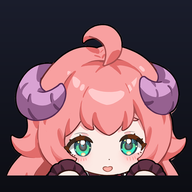
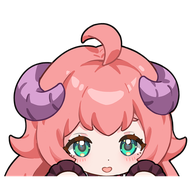
Add files via upload

diff --git a/index.html b/index.html
@@ -19,7 +19,7 @@
      favicon.png 은 **머리 전체**를 담은 크롭 — 16px 에서 뿔+분홍 머리 실루엣으로 알아본다.
      얼굴을 더 바짝 당기면 16px 에서 분홍 덩어리가 된다(실측). -->
 <link rel="icon" type="image/png" href="/favicon.png">
-<link rel="apple-touch-icon" href="/icon.png">
+<link rel="apple-touch-icon" href="/icon-ios.png"><!-- ⚠ 투명 PNG 를 홈 화면에 올리면 iOS 가 뒤를 검정으로 채운다 → 여기만 불투명 파일 -->
 <style>
   :root{
     --bg:#0e1014; --panel:#161922; --panel2:#1d2129; --line:#272c36; --grid:#1b1f27;
@@ -1466,12 +1466,12 @@
      카드 면은 원안(#FFFFFF, 밝기 100%)에서 **#EFF1F5(88%)로 더 내렸다** — 사용자 요청.
      ⚠ 더 올리려면 panel #F4F6F8(92%), 더 내리려면 #E9ECF1(84%). bg 도 같은 폭으로 같이 움직일 것. */
   body.light{
-    --bg:#e5e8ee; --panel:#eff1f5; --panel2:#e3e7ed; --line:#d5dae3; --grid:#e8ebf0;
-    --text:#23262d; --muted:#636a76; --accent:#3c5fd0; --accent2:#3c5fd0;
-    --rowhead:#ebeef3; --rowhead-h:#e1e5ec; --mon:#c4cad4; --scroll:#b6bdc8;
-    --grad:linear-gradient(135deg,#3c5fd0 0%,#3c5fd0 100%);
-    --grad-soft:linear-gradient(135deg,rgba(60,95,208,.12),rgba(60,95,208,.09));
-    --glow:0 2px 8px rgba(35,40,60,.16);
+    --bg:#f7f8f9; --panel:#ffffff; --panel2:#f4f5f7; --line:#dde1e8; --grid:#eef0f4;
+    --text:#1b1f27; --muted:#6b7280; --accent:#2b59e8; --accent2:#2b59e8;
+    --rowhead:#fafbfc; --rowhead-h:#f1f3f6; --mon:#ccd2dc; --scroll:#c3c9d3;
+    --grad:linear-gradient(135deg,#2b59e8 0%,#2b59e8 100%);
+    --grad-soft:linear-gradient(135deg,rgba(43,89,232,.12),rgba(43,89,232,.09));
+    --glow:0 2px 8px rgba(27,31,39,.14);
     --qa-c:#0e7490; --qa-c-dim:rgba(14,116,144,.26);
     --qa-c-bg:rgba(14,116,144,.11); --qa-c-bd:rgba(14,116,144,.42);
   }
@@ -1479,9 +1479,9 @@
      그래야 그 안의 부서 칩·버튼·드롭다운이 전부 알아서 따라온다.
      (덮어씌우기로 했다가 부서 칩이 묻히는 것을 시안에서 확인하고 이 방식으로 바꿨다.) */
   body.light .topbar, body.light .ctxbar, body.light .footbar{
-    --panel:#343858; --panel2:#3e4368; --line:#474c77; --text:#edeff5; --muted:#aeb6c6;
-    background:#343858; border-color:#474c77; color:#edeff5; }
-  body.light .topbar .btn, body.light .ctxbar .btn, body.light .footbar .btn{ border-color:#474c77; }
+    --panel:#121418; --panel2:#22262f; --line:#2c313b; --text:#eef1f6; --muted:#9aa3b2;
+    background:#121418; border-color:#2c313b; color:#eef1f6; }
+  body.light .topbar .btn, body.light .ctxbar .btn, body.light .footbar .btn{ border-color:#2c313b; }
   html,body{ font-family:'Pretendard Variable','Pretendard',-apple-system,BlinkMacSystemFont,'Segoe UI','Malgun Gothic',sans-serif; -webkit-font-smoothing:antialiased; text-rendering:optimizeLegibility; }
   body{ background:
       radial-gradient(1100px 560px at 10% -12%, rgba(99,102,241,.10), transparent 60%),
